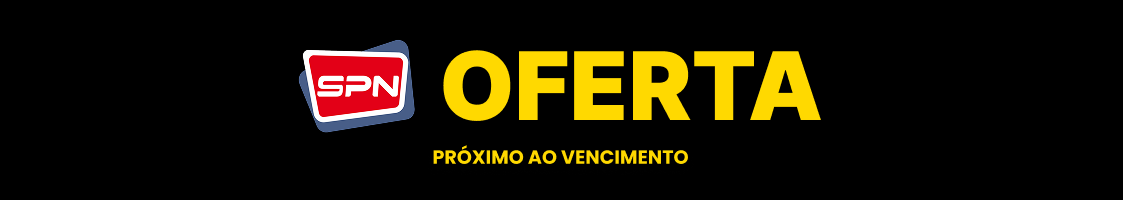
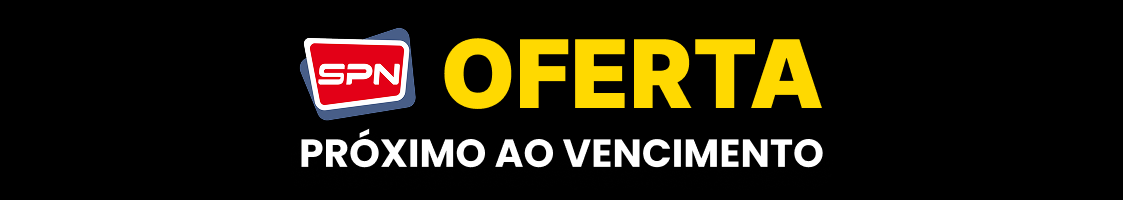
Correções finais: Mega 10, Subtítulo e Tela Branca

Changed region(s): [[0.2493, 0.15, 0.748, 0.84]]

diff --git a/gerador-cartazes/src/App.jsx b/gerador-cartazes/src/App.jsx
@@ -102,7 +102,7 @@ const Poster = ({ product, design, width, height, id, isEditable, onUpdatePositi
     container: { width: `${width}px`, height: `${height}px`, backgroundColor: 'white', overflow: 'hidden', position: 'relative', fontFamily: 'Arial, sans-serif', userSelect: 'none' },
     bannerBox: { width: '100%', height: `220px`, position: 'absolute', top: 0, left: 0, backgroundImage: d.bannerImage ? `url(${d.bannerImage})` : 'none', backgroundSize: 'cover', backgroundPosition: 'center', backgroundColor: 'rgba(0,0,0,0.05)', zIndex: 10 },
     movable: (key) => ({ position: 'absolute', left: 0, top: 0, transform: `translate(${d.positions[key]?.x || 0}px, ${d.positions[key]?.y || 0}px)`, width: '100%', display: 'flex', flexDirection: 'column', alignItems: 'center', justifyContent: 'center', cursor: isEditable ? 'move' : 'default', border: isEditable ? '2px dashed #3b82f6' : 'none', backgroundColor: isEditable ? 'rgba(59, 130, 246, 0.1)' : 'transparent', zIndex: 20, padding: '5px' }),
-    nameText: { fontSize: `${60 * scName}px`, fontWeight: '900', textTransform: 'uppercase', textAlign: 'center', lineHeight: '1.2', color: d.nameColor, wordBreak: 'break-word', pointerEvents: 'none', paddingLeft:'20px', paddingRight:'20px', letterSpacing: `${lSpacing}px` },
+    nameText: { fontSize: `${60 * scName}px`, fontWeight: '900', textTransform: 'uppercase', textAlign: 'center', lineHeight: '1.2', color: d.nameColor, wordBreak: 'break-word', pointerEvents: 'none', paddingLeft:'40px', paddingRight:'40px', letterSpacing: `${lSpacing}px` },
     subtitleText: { fontSize: `${30 * scName}px`, fontWeight: 'bold', textTransform: 'uppercase', textAlign: 'center', color: '#cc0000', marginTop: '10px', pointerEvents: 'none' },
     priceWrapper: { display: 'flex', flexDirection: 'column', alignItems: 'center', pointerEvents: 'none' },
     oldPriceWrapper: { position: 'relative', marginBottom: oldPriceConfig.margin, top: oldPriceConfig.top, zIndex: 6 }, 
@@ -166,7 +166,7 @@ const MegaPoster = ({ product, design, width, height, id, isEditable, onUpdatePo
             {design.bannerImage && ( <div style={{ width: '100%', height: '220px', position: 'absolute', top: 0, left: 0, backgroundImage: `url(${design.bannerImage})`, backgroundSize: 'cover', backgroundPosition: 'center', zIndex: 10 }}></div> )}
 
             <div style={s.movable('mega_name')} onMouseDown={(e) => handleMouseDown(e, 'mega_name')}>
-                <div style={{ padding: '0 20px', textAlign: 'center', width: '100%' }}>
+                <div style={{ padding: '0 50px', textAlign: 'center', width: '100%' }}>
                     <h1 style={{ fontSize: `${55 * scName}px`, fontFamily: fontMega, color: 'black', textTransform: 'uppercase', lineHeight: 1.2, marginBottom: '10px', letterSpacing: `${lSpacing}px` }}>{product.name}</h1>
                     {product.subtitle && <h2 style={{ fontSize: `${30 * scName}px`, fontFamily: fontMega, color: '#cc0000', textTransform: 'uppercase', marginTop: '10px', letterSpacing: `${lSpacing}px` }}>{product.subtitle}</h2>}
                 </div>
